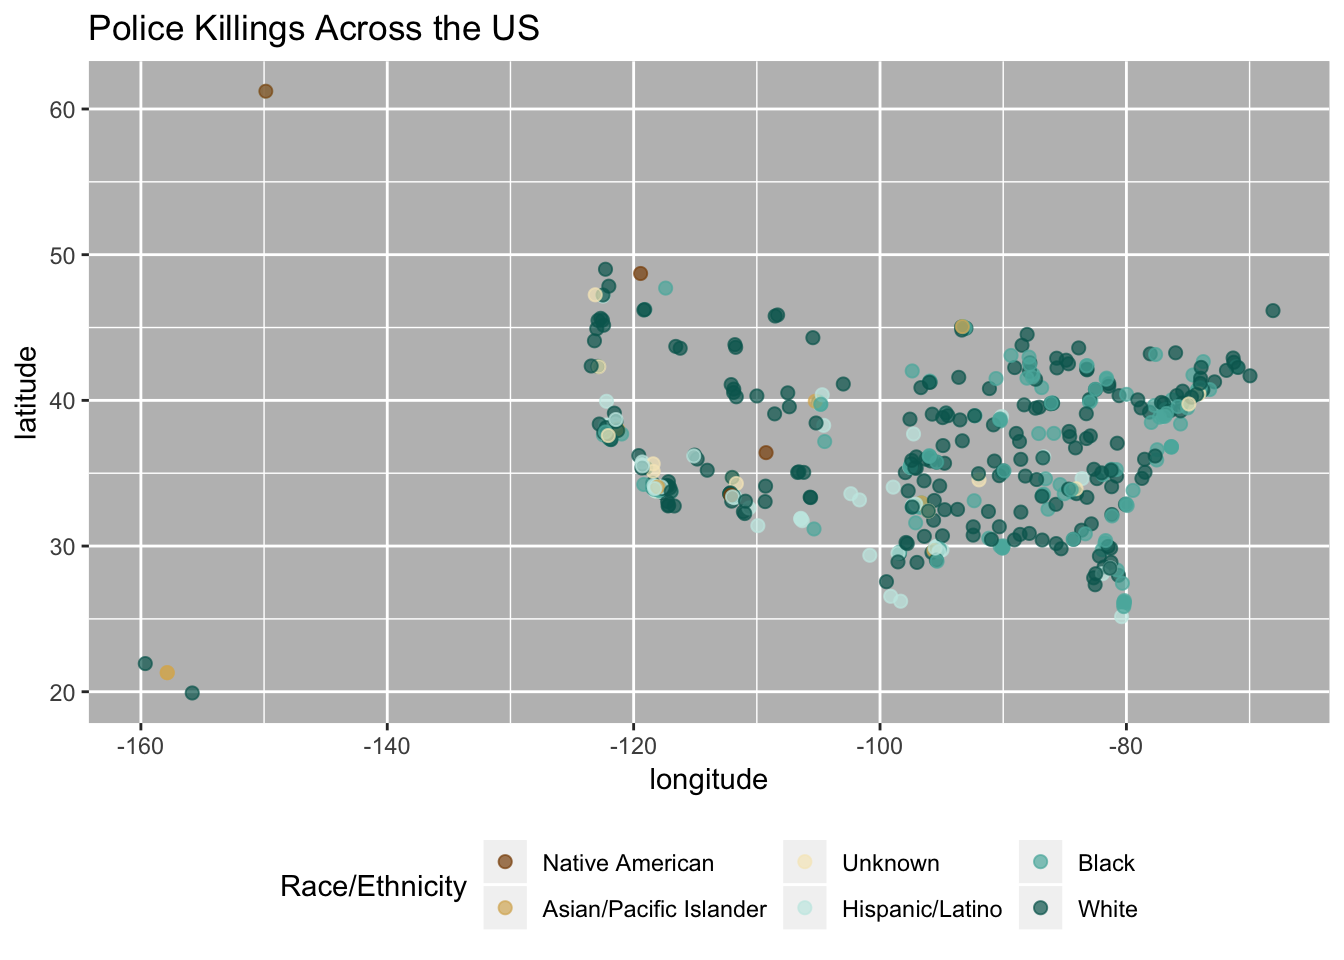
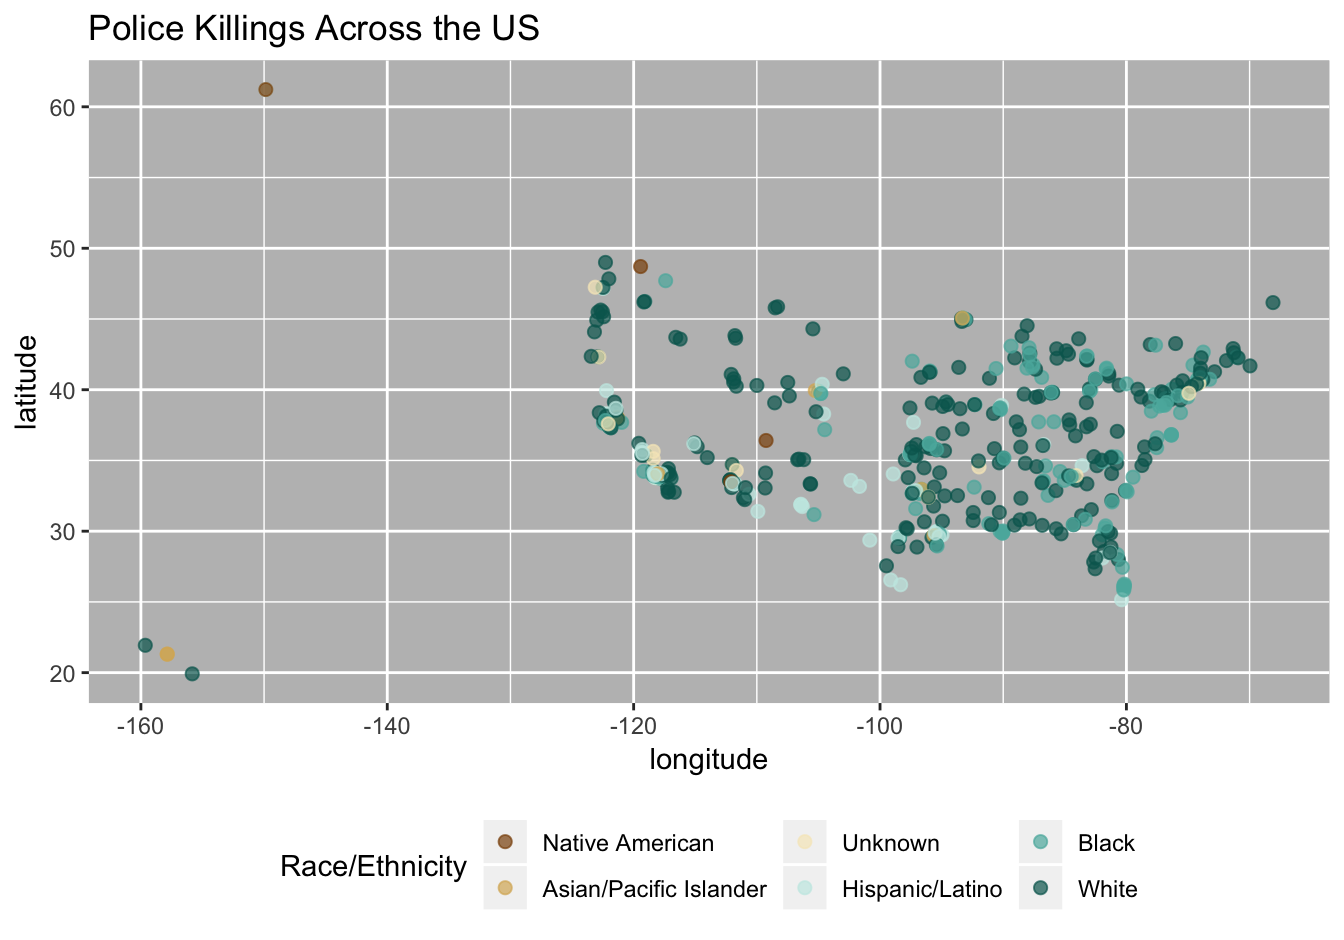
JV - beautifying table

diff --git a/index.html b/index.html
@@ -219,7 +219,7 @@ $(document).ready(function () {
 <h2>2015</h2>
 <p><img src = "data/police_badge_gun.jpg" style = "width:100%"; align="center"></p>
 <p>Police killings of citizens has been a point of tension in American culture over the past few years. With recent high profile police killings of African Americans like Eric Garner, Michael Brown Jr., Freddie Gray, Philando Castile and many others, we were interested in looking into what the data tells us about recent police killings.</p>
-<p><img src="index_files/figure-html/unnamed-chunk-2-1.png" width="672" /></p>
+<p><img src="index_files/figure-html/unnamed-chunk-2-1.png" width="100%" /></p>
 </div>
 
 
